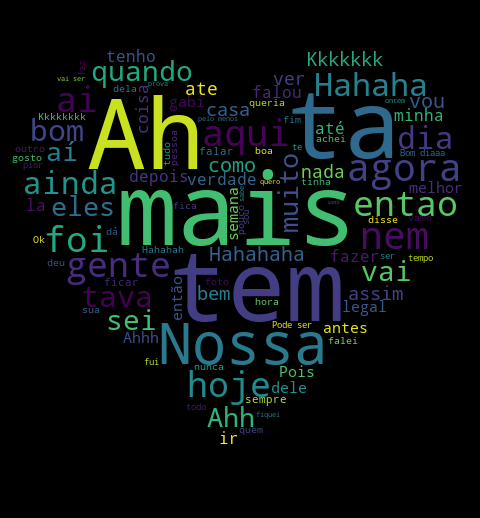
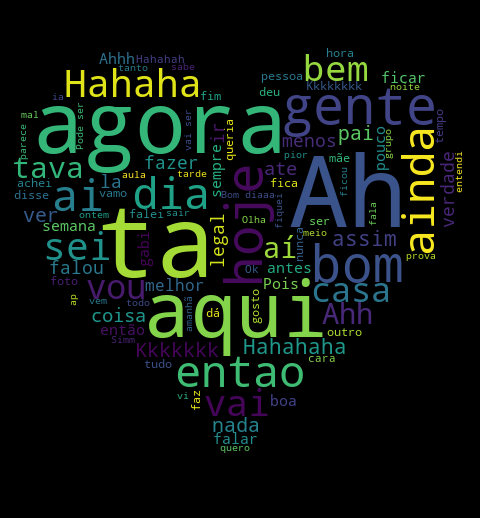
implements word cloud v4

Changed region(s): [[0.0312, 0.0927, 0.9688, 0.8958]]

diff --git a/analyzers/whatsapp.py b/analyzers/whatsapp.py
@@ -1,5 +1,6 @@
 import datetime
 import numpy as np
+import nltk
 import matplotlib.pyplot as plt
 from wordcloud import WordCloud, STOPWORDS, ImageColorGenerator
 from emoji import UNICODE_EMOJI
@@ -105,6 +106,9 @@ def createWordCloud():
     # gera a wordcloud
     mask = np.array(Image.open("images/heart.png"))
     stopwords = set(STOPWORDS)
+    nltk.download('stopwords')
+    portugueseStopwords = nltk.corpus.stopwords.words('portuguese')
+    stopwords.update(portugueseStopwords)
     stopwords.update([
         "da", "meu", "em", "você", "de", "ao", "os", "que", "pra", "para", "e", "o", "a", "tb",
         "tambem", "ou", "um", "mas", "ja", "já", "se", "dp", "ne", "né", "por", "msm", "mesmo",
